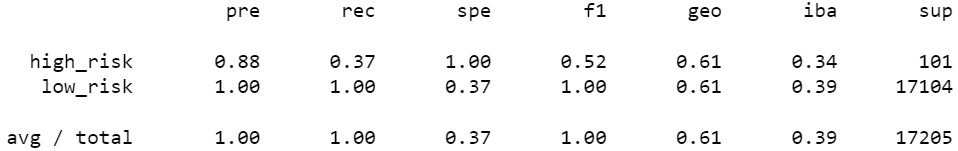
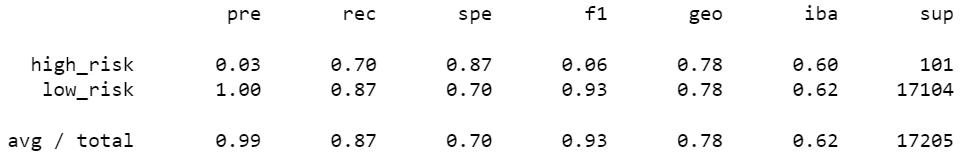
deliv 4

diff --git a/README.md b/README.md
@@ -1,5 +1,9 @@
 # Credit_Risk_Analysis
 
+## Purpose
+
+The purpose of the analysis below is to assess the performance of different machine learning models with unbalanced classes used to predict LendingClub loan risks.
+
 ## Balanced Accuracy Score
 
 Model|Accuracy
@@ -11,16 +15,7 @@ SMOTEENN|![](./analysis/s_acc.png)
 Balanced Random Forest|![](./analysis/brf_acc.png)
 Easy Ensemble AdaBoost|![](./analysis/eea_acc.png)
 
-## Imbalanced Classification Report
-
-Model|Imbalanced Classification Report
----|---
-Naive Random Oversampling|![](./analysis/nro_icr.png)
-SMOTE Oversampling|![](./analysis/so_icr.png)
-Cluster Centroids|![](./analysis/cc_icr.png)
-SMOTEENN|![](./analysis/s_icr.png)
-Balanced Random Forest|![](./analysis/brf_icr.png)
-Easy Ensemble AdaBoost|![](./analysis/eea_icr.png)
+Balanced Random Forest and Easy Ensemble AdaBoost give huge leap ahead each in terms of accuracy score. How could we see in a more obvious way? Confusion matrix is going to help us with that.
 
 ## Confusion Matrix
 
@@ -33,17 +28,44 @@ SMOTEENN|![](./analysis/s_cm.png)
 Balanced Random Forest|![](./analysis/bfr_cm.png)
 Easy Ensemble AdaBoost|![](./analysis/eea_cm.png)
 
+We see at once what is so good about the last two models: sensitivity for high-risk loans 15/17 and 16/17 is far better any of the first four models. The Imbalanced Classification Reports below are even more obvious for that.
+
+## Imbalanced Classification Report
+
+Model|Imbalanced Classification Report
+---|---
+Naive Random Oversampling|![](./analysis/nro_icr.png)
+SMOTE Oversampling|![](./analysis/so_icr.png)
+Cluster Centroids|![](./analysis/cc_icr.png)
+SMOTEENN|![](./analysis/s_icr.png)
+Balanced Random Forest|![](./analysis/brf_icr.png)
+Easy Ensemble AdaBoost|![](./analysis/eea_icr.png)
+
+As I see it, the only model giving practically applicable result is Easy Ensemble AdaBoost. Only this model is sensitive enough to spot more than 90% of high-risk loans. For further gauging all six models see the section "Recommendations on which model to use"
+
 ## Balanced Random Forest: features sorted in descending order by feature importance
 
 Feature|Explanation|Importance
 ---|---|---
-total_pymnt_inv|Payments received to date for portion of total amount funded by investors|0.0727639593858621
-last_pymnt_amnt|Last total payment amount received|0.06834306477244799
-total_rec_prncp|Principal received to date|0.06782335661147988
-total_pymnt|Payments received to date for total amount funded|0.05739610678680039
-total_rec_int|Interest received to date|0.05720777169836709
-out_prncp|Remaining outstanding principal for total amount funded|0.020688645276999505
-installment|The monthly payment owed by the borrower if the loan originates|0.02036466881582304
-out_prncp_inv|Remaining outstanding principal for portion of total amount funded by investors|0.018656936727152965
-dti|A ratio calculated using the borrower’s total monthly debt payments on the total debt obligations, excluding mortgage and the requested LC loan, divided by the borrower’s self-reported monthly income.|0.017857917342116038
-max_bal_bc|Maximum current balance owed on all revolving accounts|0.01601229614899384
+total_rec_prncp|Principal received to date|0.07876809003486353
+total_pymnt|Payments received to date for total amount funded|0.05883806887524815
+total_pymnt_inv|Payments received to date for portion of total amount funded by investors|0.05625613759225244
+total_rec_int|Interest received to date|0.05355513093134745
+last_pymnt_amnt|Last total payment amount received|0.0500331813446525
+int_rate|Interest Rate on the loan|0.02966959508700077
+issue_d_Jan-2019|The month which the loan was funded|0.021129125328012987
+installment|The monthly payment owed by the borrower if the loan originates|0.01980242888931366
+dti|A ratio calculated using the borrower’s total monthly debt payments on the total debt obligations, excluding mortgage and the requested LC loan, divided by the borrower’s self-reported monthly income.|0.01747062730041245
+out_prncp_inv|Remaining outstanding principal for portion of total amount funded by investors|0.016858293184471483
+
+## Recommendations on which model to use
+
+The area is new to me, so I don't feel sure enough. I see the figures, but I don't have any gut feeling yet. Before recommending any model I would do the following.
+
+I would try to drop features except the ten most important ones from `sorted(zip(brf_model.feature_importances_, X.columns), reverse=True)` (see above) and compare all six models using only these features. Than I would leave the ten least important features and compared all six models again.
+
+The **worst scenario** is if the results are more or less the same. It could also mean that "feature importance classifier" is bad.
+
+The **good scenario** is if some models will do much better using only ten "best" features, I'll recommend to add them to Easy Ensemble AdaBoost model.
+
+If all models' performance depends on the features' quality in accordance with `sorted(zip(brf_model.feature_importances_, X.columns), reverse=True)` ("good" features - good result, "bad" features - bad result), I'll recommend starting every analysis with `BalancedRandomForestClassifier` and sorting features by importance.
